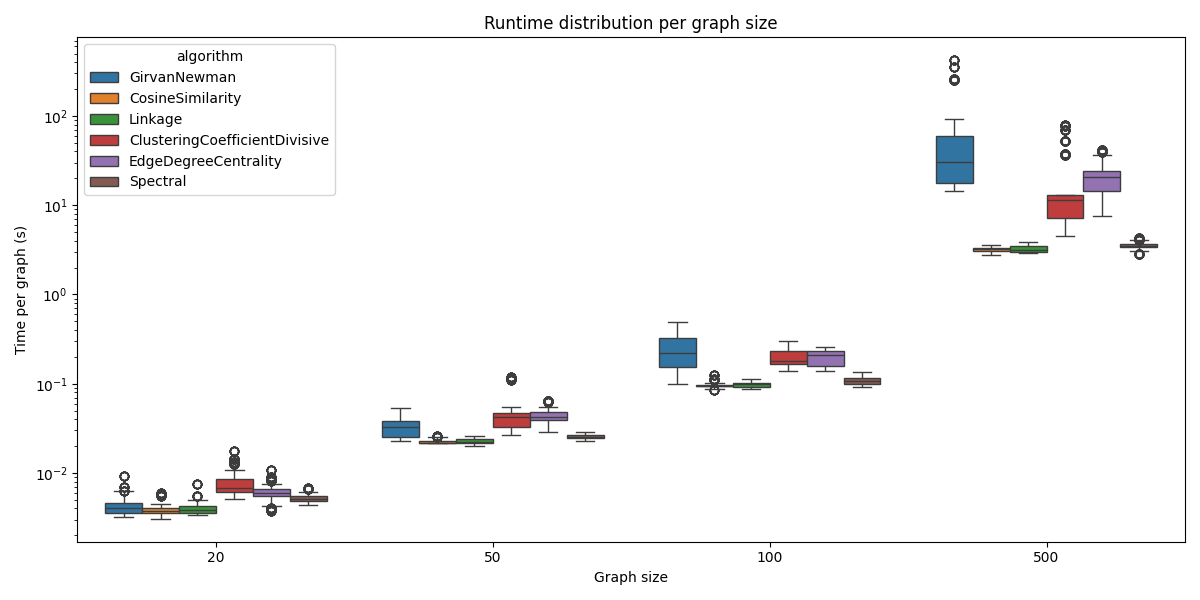
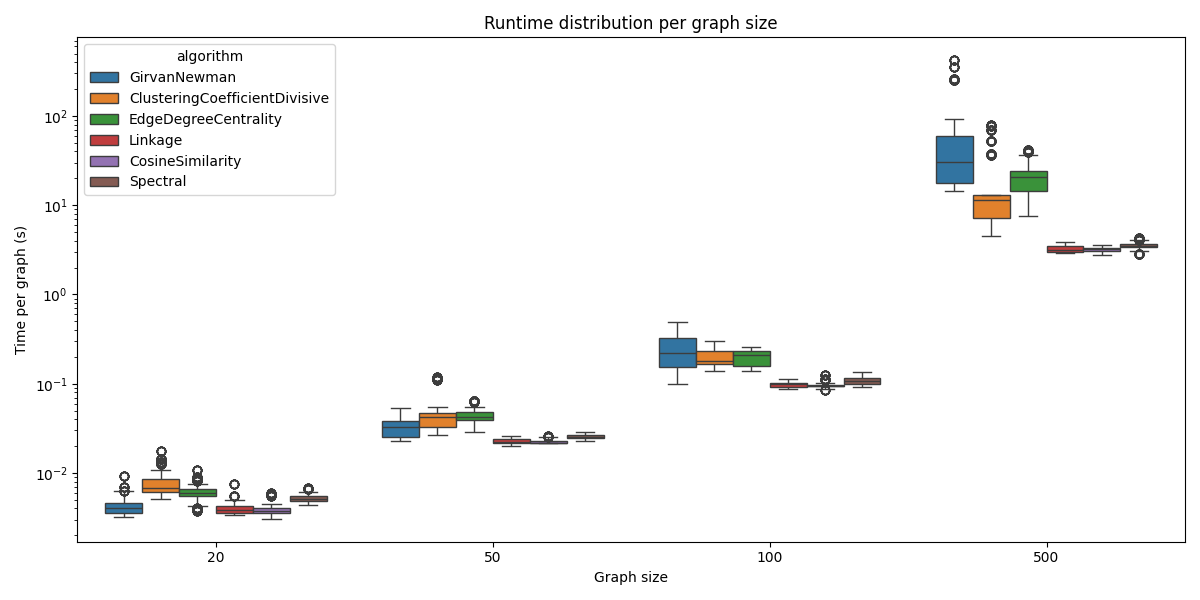
Set order of runtime boxplots to order in report

diff --git a/experiments/time_analysis.py b/experiments/time_analysis.py
@@ -92,6 +92,14 @@ sns.boxplot(
     x="graph_size",
     y="per_graph_time",
     hue="algorithm",
+    hue_order=[
+        "GirvanNewman",
+        "ClusteringCoefficientDivisive",
+        "EdgeDegreeCentrality",
+        "Linkage",
+        "CosineSimilarity",
+        "Spectral",
+    ],
 )
 
 plt.yscale("log")
